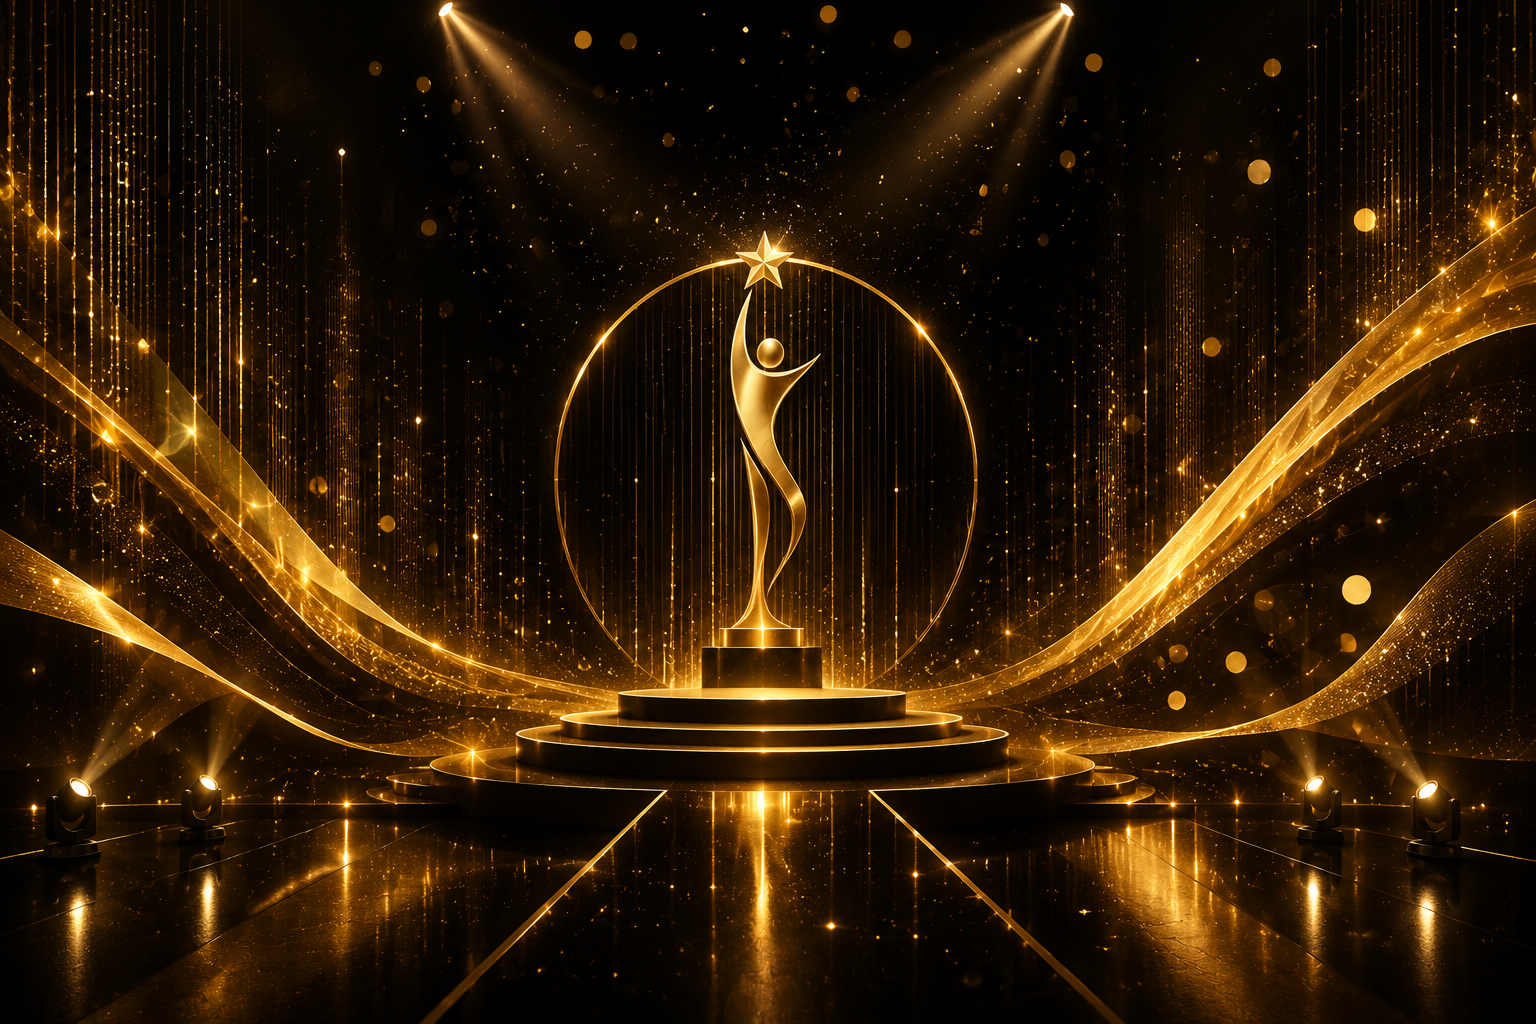
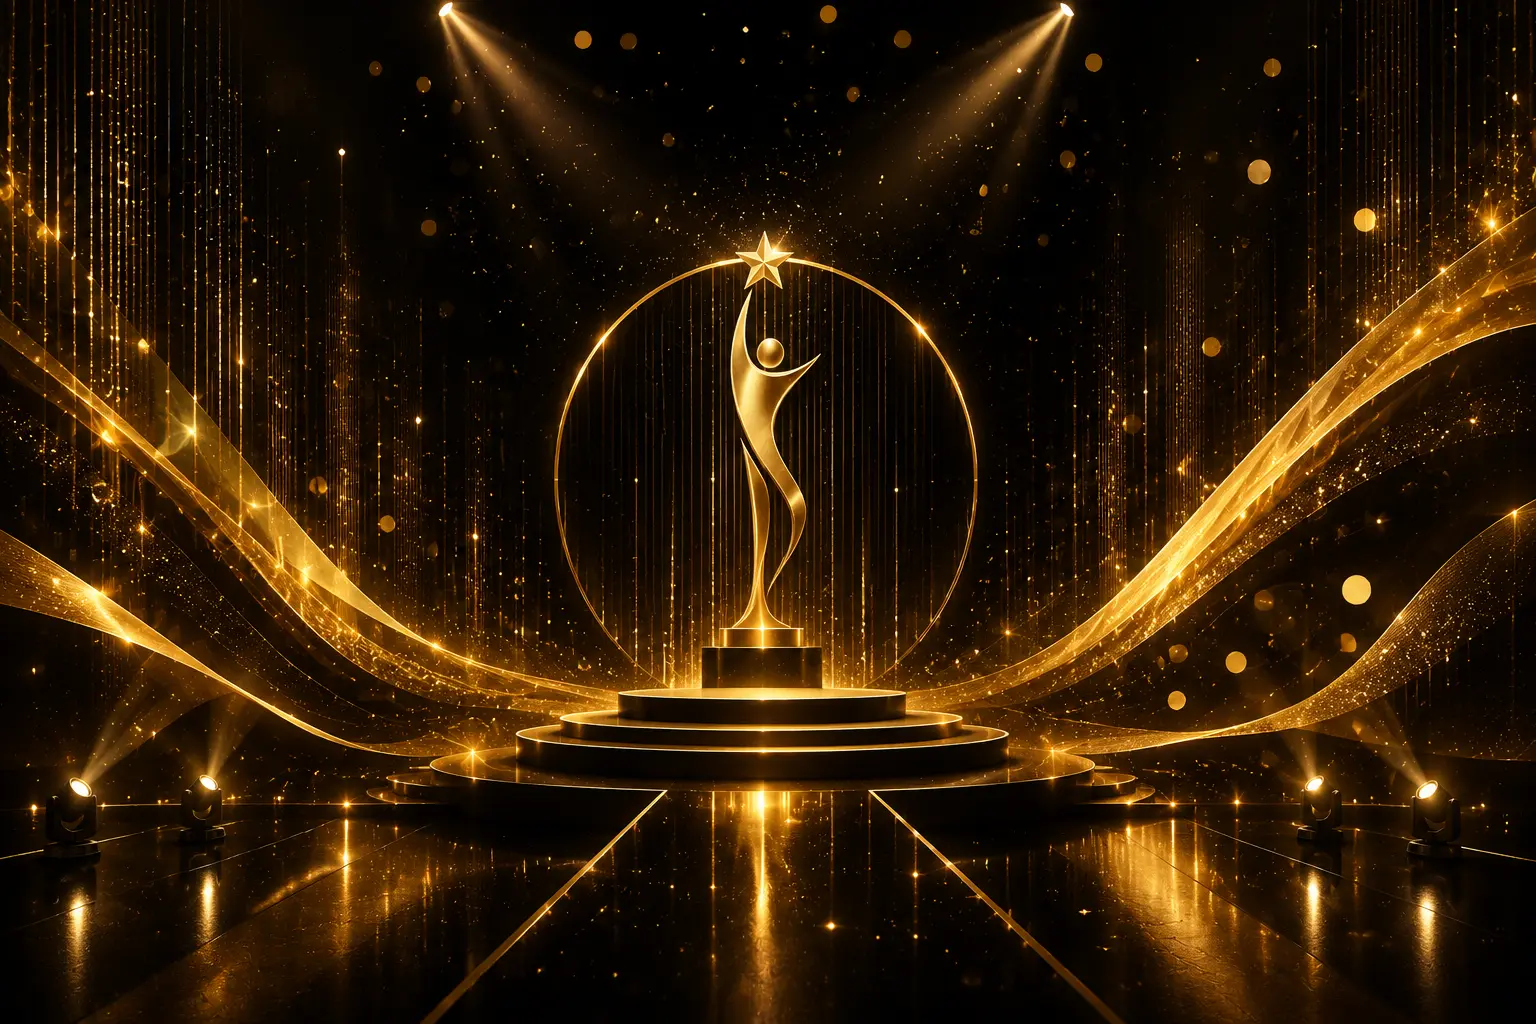
optimizing image load

diff --git a/frontend/src/App.tsx b/frontend/src/App.tsx
@@ -20,7 +20,7 @@ function useHash() { const [path, setPath] = useState(route()); useEffect(() => 
 function Notice({ text, kind = "error" }: { text: string; kind?: "error" | "success" }) { const ref = useRef<HTMLDivElement>(null); const [visible, setVisible] = useState(Boolean(text)); useEffect(() => { setVisible(Boolean(text)); if (!text) return; ref.current?.scrollIntoView({ behavior: "smooth", block: "center" }); ref.current?.focus(); const timer = window.setTimeout(() => setVisible(false), 4500); return () => window.clearTimeout(timer); }, [text]); if (!visible || !text) return null; return <div className={`notice${kind === "success" ? " success" : ""}`} role={kind === "success" ? "status" : "alert"} tabIndex={-1} ref={ref}>{text}</div>; }
 
 //for image background
-function Home() { const [categories, setCategories] = useState<Category[]>([]); useEffect(() => { awardsApi.categories().then(x => setCategories(x.categories.slice(0, 3))).catch(() => {}); }, []); return <><Header/><main><section className="hero"><div className="hero-video"><img src={BRAND.backgroundPath} alt="" /></div><div className="hero-copy"><p className="eyebrow">ODOBEN'S NIGHT OF DISTINCTION</p><h1>Own your <i>moment.</i></h1><p>{BRAND.slogan} Step forward, share your story and let the community celebrate what you bring to Odoben.</p><div className="actions"><a className="button" href="#/register">Become a nominee <ArrowRight size={17}/></a><a className="link" href="#/categories">Explore categories</a></div></div><div className="hero-mark"><Sparkles/><span>YES<br/>2026</span></div></section><section className="section" id="how-it-works"><p className="eyebrow">THE JOURNEY</p><h2>Every remarkable story deserves its stage.</h2><div className="steps"><article><span>01</span><h3>Choose your category</h3><p>Find the space that best celebrates your talent, service or impact.</p></article><article><span>02</span><h3>Register your story</h3><p>Create your nominee profile in a few thoughtful steps.</p></article><article><span>03</span><h3>Join the celebration</h3><p>Stay active and be part of the awards experience.</p></article></div></section><section className="section highlight"><div><p className="eyebrow">AWARD CATEGORIES</p><h2>Made for the people moving our community forward.</h2><a className="link gold" href="#/categories">See every category <ArrowRight size={16}/></a></div><div className="category-list">{categories.map((c, i) => <article key={c.id}><span>0{i + 1}</span><h3>{c.name}</h3><p>{c.description || "A category celebrating excellence in our community."}</p></article>)}</div></section><section className="cta"><Crown/><h2>Your name belongs in the room.</h2><a className="button" href="#/register">Start your nomination <ArrowRight size={17}/></a></section></main><Footer/></> }
+function Home() { const [categories, setCategories] = useState<Category[]>([]); useEffect(() => { awardsApi.categories().then(x => setCategories(x.categories.slice(0, 3))).catch(() => {}); }, []); return <><Header/><main><section className="hero"><div className="hero-video"><img src={BRAND.backgroundPath} alt="" fetchPriority="high" decoding="async" /></div><div className="hero-copy"><p className="eyebrow">ODOBEN'S NIGHT OF DISTINCTION</p><h1>Own your <i>moment.</i></h1><p>{BRAND.slogan} Step forward, share your story and let the community celebrate what you bring to Odoben.</p><div className="actions"><a className="button" href="#/register">Become a nominee <ArrowRight size={17}/></a><a className="link" href="#/categories">Explore categories</a></div></div><div className="hero-mark"><Sparkles/><span>YES<br/>2026</span></div></section><section className="section" id="how-it-works"><p className="eyebrow">THE JOURNEY</p><h2>Every remarkable story deserves its stage.</h2><div className="steps"><article><span>01</span><h3>Choose your category</h3><p>Find the space that best celebrates your talent, service or impact.</p></article><article><span>02</span><h3>Register your story</h3><p>Create your nominee profile in a few thoughtful steps.</p></article><article><span>03</span><h3>Join the celebration</h3><p>Stay active and be part of the awards experience.</p></article></div></section><section className="section highlight"><div><p className="eyebrow">AWARD CATEGORIES</p><h2>Made for the people moving our community forward.</h2><a className="link gold" href="#/categories">See every category <ArrowRight size={16}/></a></div><div className="category-list">{categories.map((c, i) => <article key={c.id}><span>0{i + 1}</span><h3>{c.name}</h3><p>{c.description || "A category celebrating excellence in our community."}</p></article>)}</div></section><section className="cta"><Crown/><h2>Your name belongs in the room.</h2><a className="button" href="#/register">Start your nomination <ArrowRight size={17}/></a></section></main><Footer/></> }
 
 //for video background
 // function Home() { const [categories, setCategories] = useState<Category[]>([]); useEffect(() => { awardsApi.categories().then(x => setCategories(x.categories.slice(0, 3))).catch(() => {}); }, []); return <><Header/><main><section className="hero"><div className="hero-video"><video autoPlay muted loop playsInline src={BRAND.videoPath}/></div><div className="hero-copy"><p className="eyebrow">ODOBEN'S NIGHT OF DISTINCTION</p><h1>Own your <i>moment.</i></h1><p>{BRAND.slogan} Step forward, share your story and let the community celebrate what you bring to Odoben.</p><div className="actions"><a className="button" href="#/register">Become a nominee <ArrowRight size={17}/></a><a className="link" href="#/categories">Explore categories</a></div></div><div className="hero-mark"><Sparkles/><span>YES<br/>2026</span></div></section><section className="section" id="how-it-works"><p className="eyebrow">THE JOURNEY</p><h2>Every remarkable story deserves its stage.</h2><div className="steps"><article><span>01</span><h3>Choose your category</h3><p>Find the space that best celebrates your talent, service or impact.</p></article><article><span>02</span><h3>Register your story</h3><p>Create your nominee profile in a few thoughtful steps.</p></article><article><span>03</span><h3>Join the celebration</h3><p>Stay active and be part of the awards experience.</p></article></div></section><section className="section highlight"><div><p className="eyebrow">AWARD CATEGORIES</p><h2>Made for the people moving our community forward.</h2><a className="link gold" href="#/categories">See every category <ArrowRight size={16}/></a></div><div className="category-list">{categories.map((c, i) => <article key={c.id}><span>0{i + 1}</span><h3>{c.name}</h3><p>{c.description || "A category celebrating excellence in our community."}</p></article>)}</div></section><section className="cta"><Crown/><h2>Your name belongs in the room.</h2><a className="button" href="#/register">Start your nomination <ArrowRight size={17}/></a></section></main><Footer/></> }

diff --git a/frontend/src/components/Chrome.tsx b/frontend/src/components/Chrome.tsx
@@ -6,7 +6,7 @@ import { session } from "../utils/session";
 //Trophy logo
 // export function Logo() { return <a className="logo" href="#/"><span><Trophy size={17}/></span>{BRAND.name}</a>; }
 //Custom logo
-export function Logo() { return <a className="logo" href="#/"><img src={ `${import.meta.env.BASE_URL}media/logo.png` } alt="OD YES AWARDS" /></a>; }
+export function Logo() { return <a className="logo" href="#/"><img src={`${import.meta.env.BASE_URL}media/logo.webp`} alt="OD YES AWARDS" fetchPriority="high" decoding="async" /></a>; }
 export function Header() { const [open, setOpen] = useState(false); const logged = session.get(); return <header><Logo/><button className="menu" onClick={() => setOpen(!open)} aria-label="Toggle navigation">{open ? <X/> : <Menu/>}</button><nav className={open ? "open" : ""}><a href="#/categories">Categories</a>{logged ? <a href={logged.user.role === "NOMINEE" ? "#/dashboard" : "#/admin"}>Dashboard</a> : <><a href="#/login">Sign in</a><a className="button mini" href="#/register">Become a nominee</a></>}</nav></header>; }
 export function Footer() { return <footer><Logo/><p>© {new Date().getFullYear()} OD YES AWARDS. A celebration of excellence.</p></footer>; }
 export function DashboardHeader({ title }: { title: string }) { return <div className="dash-head"><div><p className="eyebrow">OD YES AWARDS / PORTAL</p><h1>{title}</h1></div><button className="text-btn" onClick={() => { session.clear(); location.hash = "/"; }}><LogOut size={16}/> Sign out</button></div>; }

diff --git a/frontend/index.html b/frontend/index.html
@@ -1,1 +1,15 @@
-<!doctype html><html lang="en"><head><meta charset="UTF-8"/><meta name="viewport" content="width=device-width, initial-scale=1.0"/><meta name="theme-color" content="#080807"/><title>OD YES AWARDS</title></head><body><div id="root"></div><script type="module" src="/src/main.tsx"></script></body></html>
+<!doctype html>
+<html lang="en">
+<head>
+  <meta charset="UTF-8"/>
+  <meta name="viewport" content="width=device-width, initial-scale=1.0"/>
+  <meta name="theme-color" content="#080807"/>
+  <title>OD YES AWARDS</title>
+  <link rel="preload" as="image" href="/media/logo.webp"/>
+  <link rel="preload" as="image" href="/media/bg.webp"/>
+</head>
+<body>
+  <div id="root"></div>
+  <script type="module" src="/src/main.tsx"></script>
+</body>
+</html>
